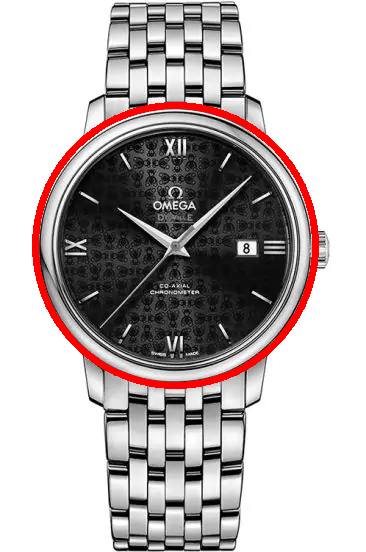
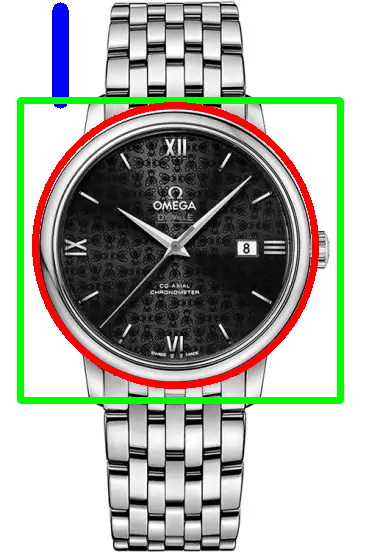
commit

Changed region(s): [[0.0301, 0.0, 0.9617, 0.7391]]

diff --git a/drawingDifferentShapesAndWritingText.py b/drawingDifferentShapesAndWritingText.py
@@ -12,7 +12,6 @@ img=cv2.imread('images/watch.png',cv2.IMREAD_COLOR)
 # Red => (0,0,255)
 # Black => (0,0,0)
 # White => (255,255,255)
-'''
 
 cv2.line(img,(60,10),(60,100),(255,0,0),15)
 cv2.imshow('image',img)
@@ -21,17 +20,17 @@ cv2.destroyAllWindows()
 cv2.imwrite('output/line.png',img)
 
 # output is in directory "output" =.line.png
-'''
+
 
 # Drawing a rectange on the image using cv2
 # cv2.reactangle(image,start from(x,y),end at(x,y),color,thickness)
 
-# cv2.rectangle(img,(20,400),(340,100),(0,255,0),5)
-# cv2.imshow('rectangle',img)
-# cv2.waitKey(0)
-# cv2.destroyAllWindows()
-# cv2.imwrite('output/line.png',img)
-# cv2.imwrite('output/reactangle.png',img)
+cv2.rectangle(img,(20,400),(340,100),(0,255,0),5)
+cv2.imshow('rectangle',img)
+cv2.waitKey(0)
+cv2.destroyAllWindows()
+cv2.imwrite('output/line.png',img)
+cv2.imwrite('output/reactangle.png',img)
 
 # cv2.circle(image,start from(x,y),radius,color,thickness)
 cv2.circle(img,(175,245),140,(0,0,255),5)
